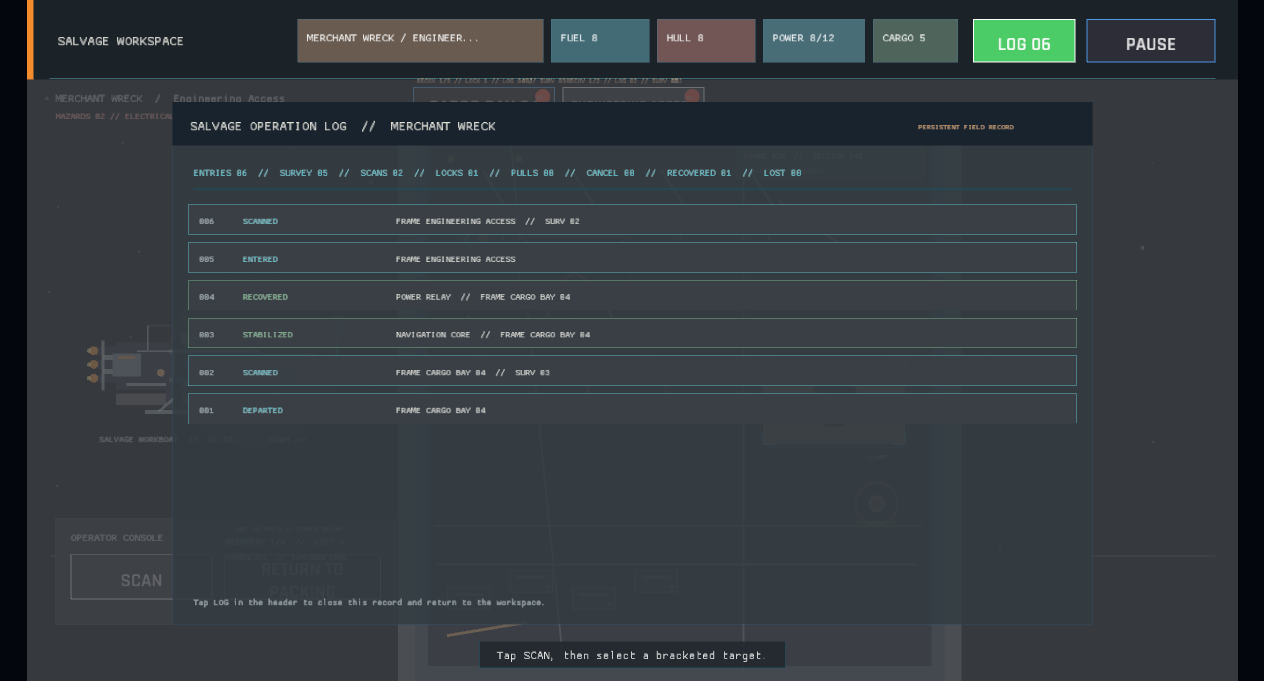
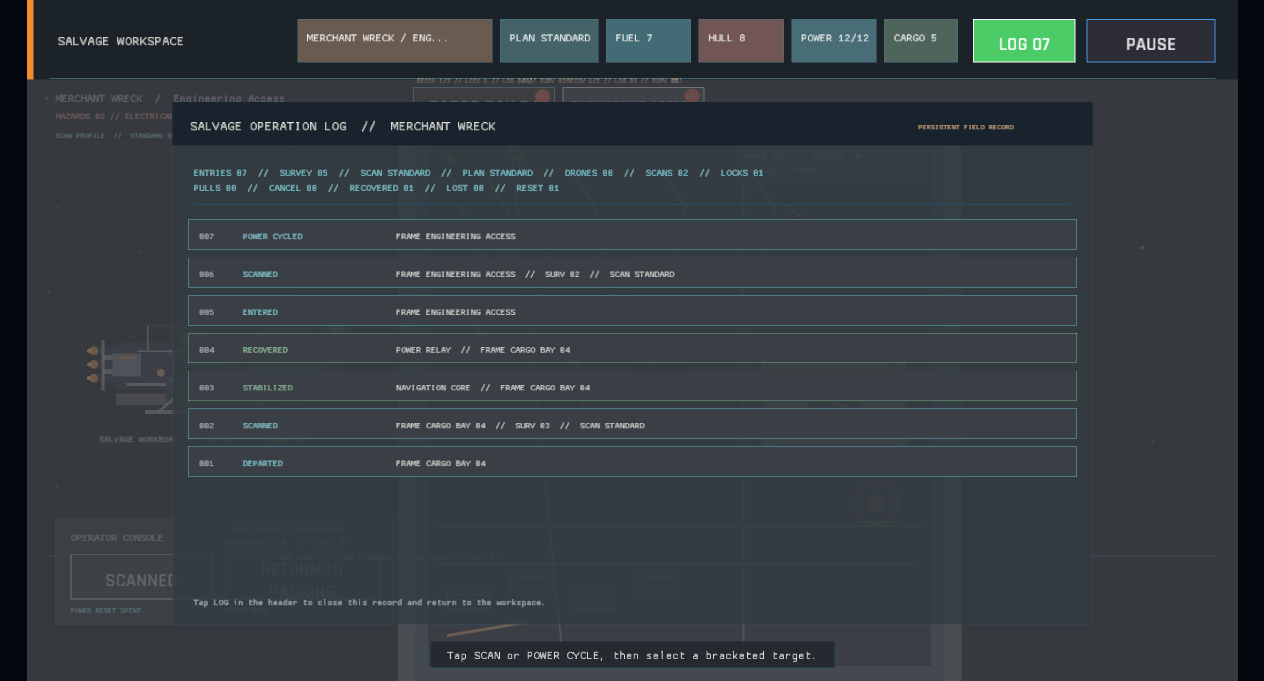
The field log records the reserve waking (workspace log reset count)
The one-shot power reset was recorded as a normal operation event, but the log summary omitted it, making the recovery work disappear from the run totals. This pass splits the crowded summary into two readable rows and adds a RESET count while keeping the detailed POWER CYCLED entry in sequence. The log capture and event-count regression test now cover the visible record.

diff --git a/src/ui/workspace_log.rs b/src/ui/workspace_log.rs
@@ -98,31 +98,38 @@ fn draw_log_summary(
     let lost = log_event_count(entries, WorkspaceLogEvent::TargetLost);
     let pulls = log_event_count(entries, WorkspaceLogEvent::ExtractionStarted);
     let cancelled = log_event_count(entries, WorkspaceLogEvent::ExtractionCancelled);
+    let resets = log_event_count(entries, WorkspaceLogEvent::PowerCycled);
     draw_text(
         format!(
-            "ENTRIES {:02}  //  SURVEY {:02}  //  {}  //  {}  //  DRONES {:02}  //  SCANS {:02}  //  LOCKS {:02}  //  PULLS {:02}  //  CANCEL {:02}  //  RECOVERED {:02}  //  LOST {:02}",
+            "ENTRIES {:02}  //  SURVEY {:02}  //  {}  //  {}  //  DRONES {:02}  //  SCANS {:02}  //  LOCKS {:02}",
             entries.len(),
             survey_count,
             scan_log_label(scan_profile),
             voyage_plan_log_label(voyage_plan),
             drones,
             scans,
-            locks,
-            pulls,
-            cancelled,
-            recovered,
-            lost
+            locks
         ),
         x,
         y,
         13.0,
         visual_theme::cyan(),
     );
+    draw_text(
+        format!(
+            "PULLS {:02}  //  CANCEL {:02}  //  RECOVERED {:02}  //  LOST {:02}  //  RESET {:02}",
+            pulls, cancelled, recovered, lost, resets
+        ),
+        x,
+        y + 16.0,
+        13.0,
+        visual_theme::cyan(),
+    );
     draw_line(
         x,
-        y + 14.0,
+        y + 30.0,
         LOG_FRAME.right() - 22.0,
-        y + 14.0,
+        y + 30.0,
         1.0,
         visual_theme::cyan_dim(),
     );
@@ -163,7 +170,7 @@ fn draw_log_entries(ctx: &UiContext<'_>, entries: &[WorkspaceLogEntry]) {
     }
     let first = entries.len().saturating_sub(MAX_VISIBLE_ENTRIES);
     for (row, entry) in entries[first..].iter().rev().enumerate() {
-        let y = LOG_FRAME.y + 108.0 + row as f32 * 40.0;
+        let y = LOG_FRAME.y + 124.0 + row as f32 * 40.0;
         draw_log_row(
             ctx,
             entry,

diff --git a/src/ui/workspace_log/tests.rs b/src/ui/workspace_log/tests.rs
@@ -41,6 +41,18 @@ fn log_summary_counts_drone_deployments_as_field_events() {
 }
 
 #[test]
+fn log_summary_counts_field_power_resets_as_field_events() {
+    let entries = [WorkspaceLogEntry::new(
+        1,
+        WorkspaceLogEvent::PowerCycled,
+        Some("cargo_bay"),
+        None,
+    )];
+
+    assert_eq!(log_event_count(&entries, WorkspaceLogEvent::PowerCycled), 1);
+}
+
+#[test]
 fn log_summary_names_the_active_scan_profile() {
     assert_eq!(
         scan_log_label(WorkspaceScanProfile::Standard),

diff --git a/src/game/capture.rs b/src/game/capture.rs
@@ -404,6 +404,7 @@ impl Game {
                     .session
                     .switch_workspace_section("engineering_access", &self.data);
                 let _ = self.session.scan_workspace(&self.data);
+                let _ = self.session.power_cycle_workspace(&self.data);
                 self.workspace_elapsed = 2.0;
                 self.workspace_log_open = true;
                 GameState::SalvageWorkspace
